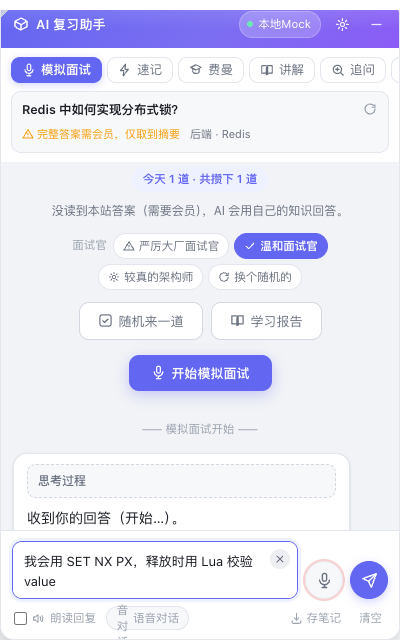
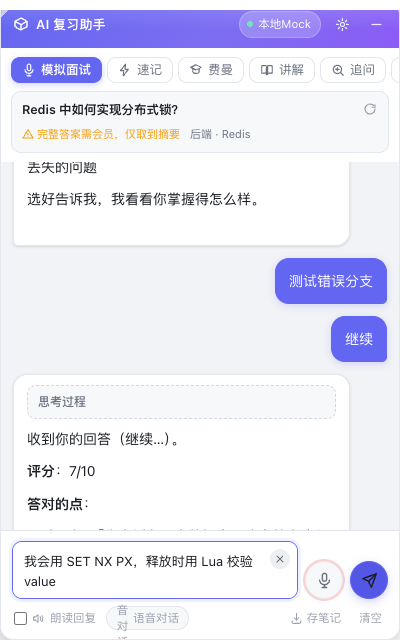
把复习排期从面板挪到后台
面板上不再显示「有 N 道题到了该复习的时间」和「开始复习」按钮，
悬浮球上的到期角标也撤掉 —— 页面上是刷题的地方，排期属于统计。

后台「笔记」页新增待复习清单：列出到期的题目、掌握状态和遗忘次数，
点一下直接打开原题；上面还有「开始复习」按钮，一键打开最该复习的那道。

diff --git a/options.js b/options.js
@@ -702,6 +702,57 @@
     return box;
   }
 
+  /** 待复习清单：哪几道该复习了，点一下直接打开原题 */
+  async function renderDueList() {
+    const box = $('dueList');
+    if (!box) return;
+    box.innerHTML = '';
+
+    const list = await MSY.notes.list();
+    const dueList = MSY.srs
+      .due(list)
+      .filter((r) => r.url)
+      .sort((a, b) => (a.srs?.due || 0) - (b.srs?.due || 0));
+
+    if (!dueList.length) {
+      box.append(
+        NS_h('div', { class: 'nempty', text: '现在没有到期的题。想加练的话，去题目页和 AI 聊几句就行。' })
+      );
+      return;
+    }
+
+    for (const rec of dueList.slice(0, 12)) {
+      const state = rec.srs?.lastRating ? MSY.srs.ratingById(rec.srs.lastRating) : null;
+      const item = NS_h('div', { class: 'nitem' });
+      item.style.cursor = 'pointer';
+      const body = NS_h('div', { class: 'nbody' });
+      body.append(
+        NS_h('div', {
+          class: 'nt',
+          text: rec.num ? `${rec.num}. ${rec.title || '未命名题目'}` : rec.title || '未命名题目',
+        })
+      );
+      const meta = NS_h('div', { class: 'nmeta' });
+      meta.append(
+        NS_h('span', {
+          class: 'rpt-pill',
+          text: state ? state.label : '未自评',
+          style: `background:${MSY.report.STATE_COLOR[rec.srs?.lastRating || 'new']}1f;color:${MSY.report.STATE_COLOR[rec.srs?.lastRating || 'new']}`,
+        })
+      );
+      meta.append(NS_h('span', { text: MSY.srs.dueLabel(rec.srs) }));
+      if (rec.srs?.lapses) meta.append(NS_h('span', { text: `忘过 ${rec.srs.lapses} 次` }));
+      if (rec.bank?.name) meta.append(NS_h('span', { text: rec.bank.name }));
+      body.append(meta);
+      item.append(body);
+      item.addEventListener('click', () => chrome.tabs.create({ url: rec.url }));
+      box.append(item);
+    }
+    if (dueList.length > 12) {
+      box.append(NS_h('div', { class: 'nmore', text: `…… 还有 ${dueList.length - 12} 道` }));
+    }
+  }
+
   async function renderNotesList() {
     const list = await filteredNotes();
     const all = await MSY.notes.list();
@@ -710,6 +761,7 @@
     $('notesFiltered').textContent =
       list.length === all.length ? '' : `筛出 ${list.length} 道`;
     await renderSrsStats(all);
+    await renderDueList();
 
     const box = $('notesList');
     box.innerHTML = '';
@@ -856,6 +908,21 @@
     } finally {
       btn.disabled = false;
     }
+  });
+
+  $('btnStartReview').addEventListener('click', async () => {
+    const list = await MSY.notes.list();
+    const dueList = MSY.srs
+      .due(list)
+      .filter((r) => r.url)
+      .sort((a, b) => (a.srs?.due || 0) - (b.srs?.due || 0));
+    if (!dueList.length) {
+      toast('现在没有到期的题', 'ok');
+      return;
+    }
+    // 打开最该复习的那道，剩下的回面板里按间隔继续
+    chrome.tabs.create({ url: dueList[0].url });
+    toast(`已打开：${dueList[0].title || '第一道待复习的题'}`, 'ok');
   });
 
   $('btnExportDue').addEventListener('click', async () => {

diff --git a/content/ui.js b/content/ui.js
@@ -1249,11 +1249,12 @@
         }
       },
 
-      /** 悬浮球上显示到期数量。关着面板的时候也能提醒你该复习了。 */
-      setDueCount(n) {
-        fabCount.textContent = n > 99 ? '99+' : String(n);
-        fabCount.hidden = !n;
-        fab.title = n ? `AI 复习助手（${n} 道该复习了）` : 'AI 复习助手（Alt+Shift+M）';
+      /**
+       * 到期数量保留成接口但不再显示 —— 复习排期挪到设置页了，
+       * 页面上只留一个干净的面板。
+       */
+      setDueCount() {
+        fabCount.hidden = true;
       },
 
       setProfile(name, configured) {
@@ -1312,9 +1313,6 @@
           if (p.total) bits.push(`共攒下 ${p.total} 道`);
           box.append(NS.h('div', { class: 'msy-progress', text: bits.join(' · ') }));
         }
-        if (info?.review?.due > 0) {
-          box.append(NS.h('div', { class: 'msy-due', text: `有 ${info.review.due} 道题到了该复习的时间` }));
-        }
 
         box.append(NS.h('div', { class: 'msy-empty-desc', html: desc }));
 
@@ -1336,20 +1334,12 @@
           box.append(row);
         }
 
-        // 复习入口：有到期的就排在最前面，攒着的题才有机会被翻出来
+        // 只留「随机来一道」和「学习报告」。
+        // 复习排期（多少道到期、开始复习）挪到设置页去了 ——
+        // 页面上是刷题的地方，攒了多少该复习的属于统计，不该在这儿占地方。
         const rv = info?.review;
-        if (rv && (rv.due > 0 || rv.total > 0)) {
+        if (rv && rv.total > 0) {
           const row = NS.h('div', { class: 'msy-review' });
-          if (rv.due > 0) {
-            row.append(
-              NS.h('button', {
-                class: 'msy-start msy-review-go',
-                type: 'button',
-                title: '按间隔重复挑出最该复习的那道，跳过去继续',
-                onclick: () => emit('review'),
-              }, [icon('refresh'), NS.h('span', { text: `开始复习（${rv.due} 道到期）` })])
-            );
-          }
           row.append(
             NS.h('button', {
               class: 'msy-ghost',

diff --git a/options.html b/options.html
@@ -363,8 +363,10 @@
             </p>
             <div class="srs-stats" id="srsStats"></div>
             <div class="btn-row" style="margin-top:14px">
-              <button class="btn primary" id="btnExportDue" type="button">导出待复习清单</button>
+              <button class="btn primary" id="btnStartReview" type="button">开始复习</button>
+              <button class="btn" id="btnExportDue" type="button">导出待复习清单</button>
             </div>
+            <div class="notes-list" id="dueList" style="margin-top:12px"></div>
             <div class="note info">
               间隔是乘法递增的：评为「记住了」会按难度因子拉长（1 天 → 2.5 天 → 6 天……），
               评为「完全不会」会把间隔清零、10 分钟后再来，并降低这道题的难度因子，

diff --git a/dev/e2e_test.py b/dev/e2e_test.py
@@ -1112,28 +1112,30 @@ async def main():
         await page.wait_for_timeout(400)
         await clear_conversation(page)
 
-        check("空状态提示有到期题", await page.locator("#msy-ai-host .msy-due").count() == 1)
-        due_text = await page.locator("#msy-ai-host .msy-due").inner_text()
-        check("到期数量显示正确", "1" in due_text, due_text)
+        # 复习排期已经挪到后台，面板上不该再出现这些
+        check("面板上不再显示到期提示", await page.locator("#msy-ai-host .msy-due").count() == 0)
         badge = await page.evaluate(
             """() => {
                 const c = document.getElementById('msy-ai-host').shadowRoot.querySelector('.msy-fab-count');
                 return { hidden: c.hidden, text: c.textContent };
             }"""
         )
-        check("悬浮球上有到期角标", not badge["hidden"] and badge["text"] == "1", str(badge))
-        check("有「开始复习」按钮", await page.locator("#msy-ai-host .msy-review .msy-review-go").count() == 1)
+        check("悬浮球上也不再挂角标", badge["hidden"] is True, str(badge))
+        check("面板上不再有「开始复习」按钮", await page.locator("#msy-ai-host .msy-review-go").count() == 0)
         # 空状态里的 ghost 按钮现在有两个（随机来一道 + 学习报告）
         check("有「随机来一道」按钮", await page.locator("#msy-ai-host .msy-ghost").count() >= 1,
               f"{await page.locator('#msy-ai-host .msy-ghost').count()} 个")
 
-        # 点开始复习：本来就会跳到那道题，同一页时直接进入复习模式
-        await page.locator("#msy-ai-host .msy-review .msy-review-go").click()
-        await page.wait_for_timeout(1800)
-        pressed = await page.locator('#msy-ai-host .msy-mode[data-mode="quiz"]').get_attribute("aria-pressed")
-        check("点复习后切到了自测模式（这题忘过）", pressed == "true", str(pressed))
-        check("复习时把历史对话带回来了",
-              await page.locator("#msy-ai-host .msy-row.assistant").count() >= 1)
+        # 复习入口现在在后台：待复习清单 + 开始复习按钮
+        await opt.locator('#tabs button[data-tab="report"]').click()
+        await opt.wait_for_timeout(600)
+        await opt.locator('#tabs button[data-tab="notes"]').click()
+        await opt.wait_for_timeout(1100)
+        check("后台有待复习清单", await opt.locator("#dueList .nitem").count() >= 1,
+              f"{await opt.locator('#dueList .nitem').count()} 条")
+        due_title = await opt.locator("#dueList .nitem .nt").first.inner_text()
+        check("清单里列出了具体题目", len(due_title) > 4, due_title)
+        check("后台有「开始复习」按钮", await opt.locator("#btnStartReview").count() == 1)
 
         # 设置页的复习统计
         await opt.locator('#tabs button[data-tab="notes"]').click()
